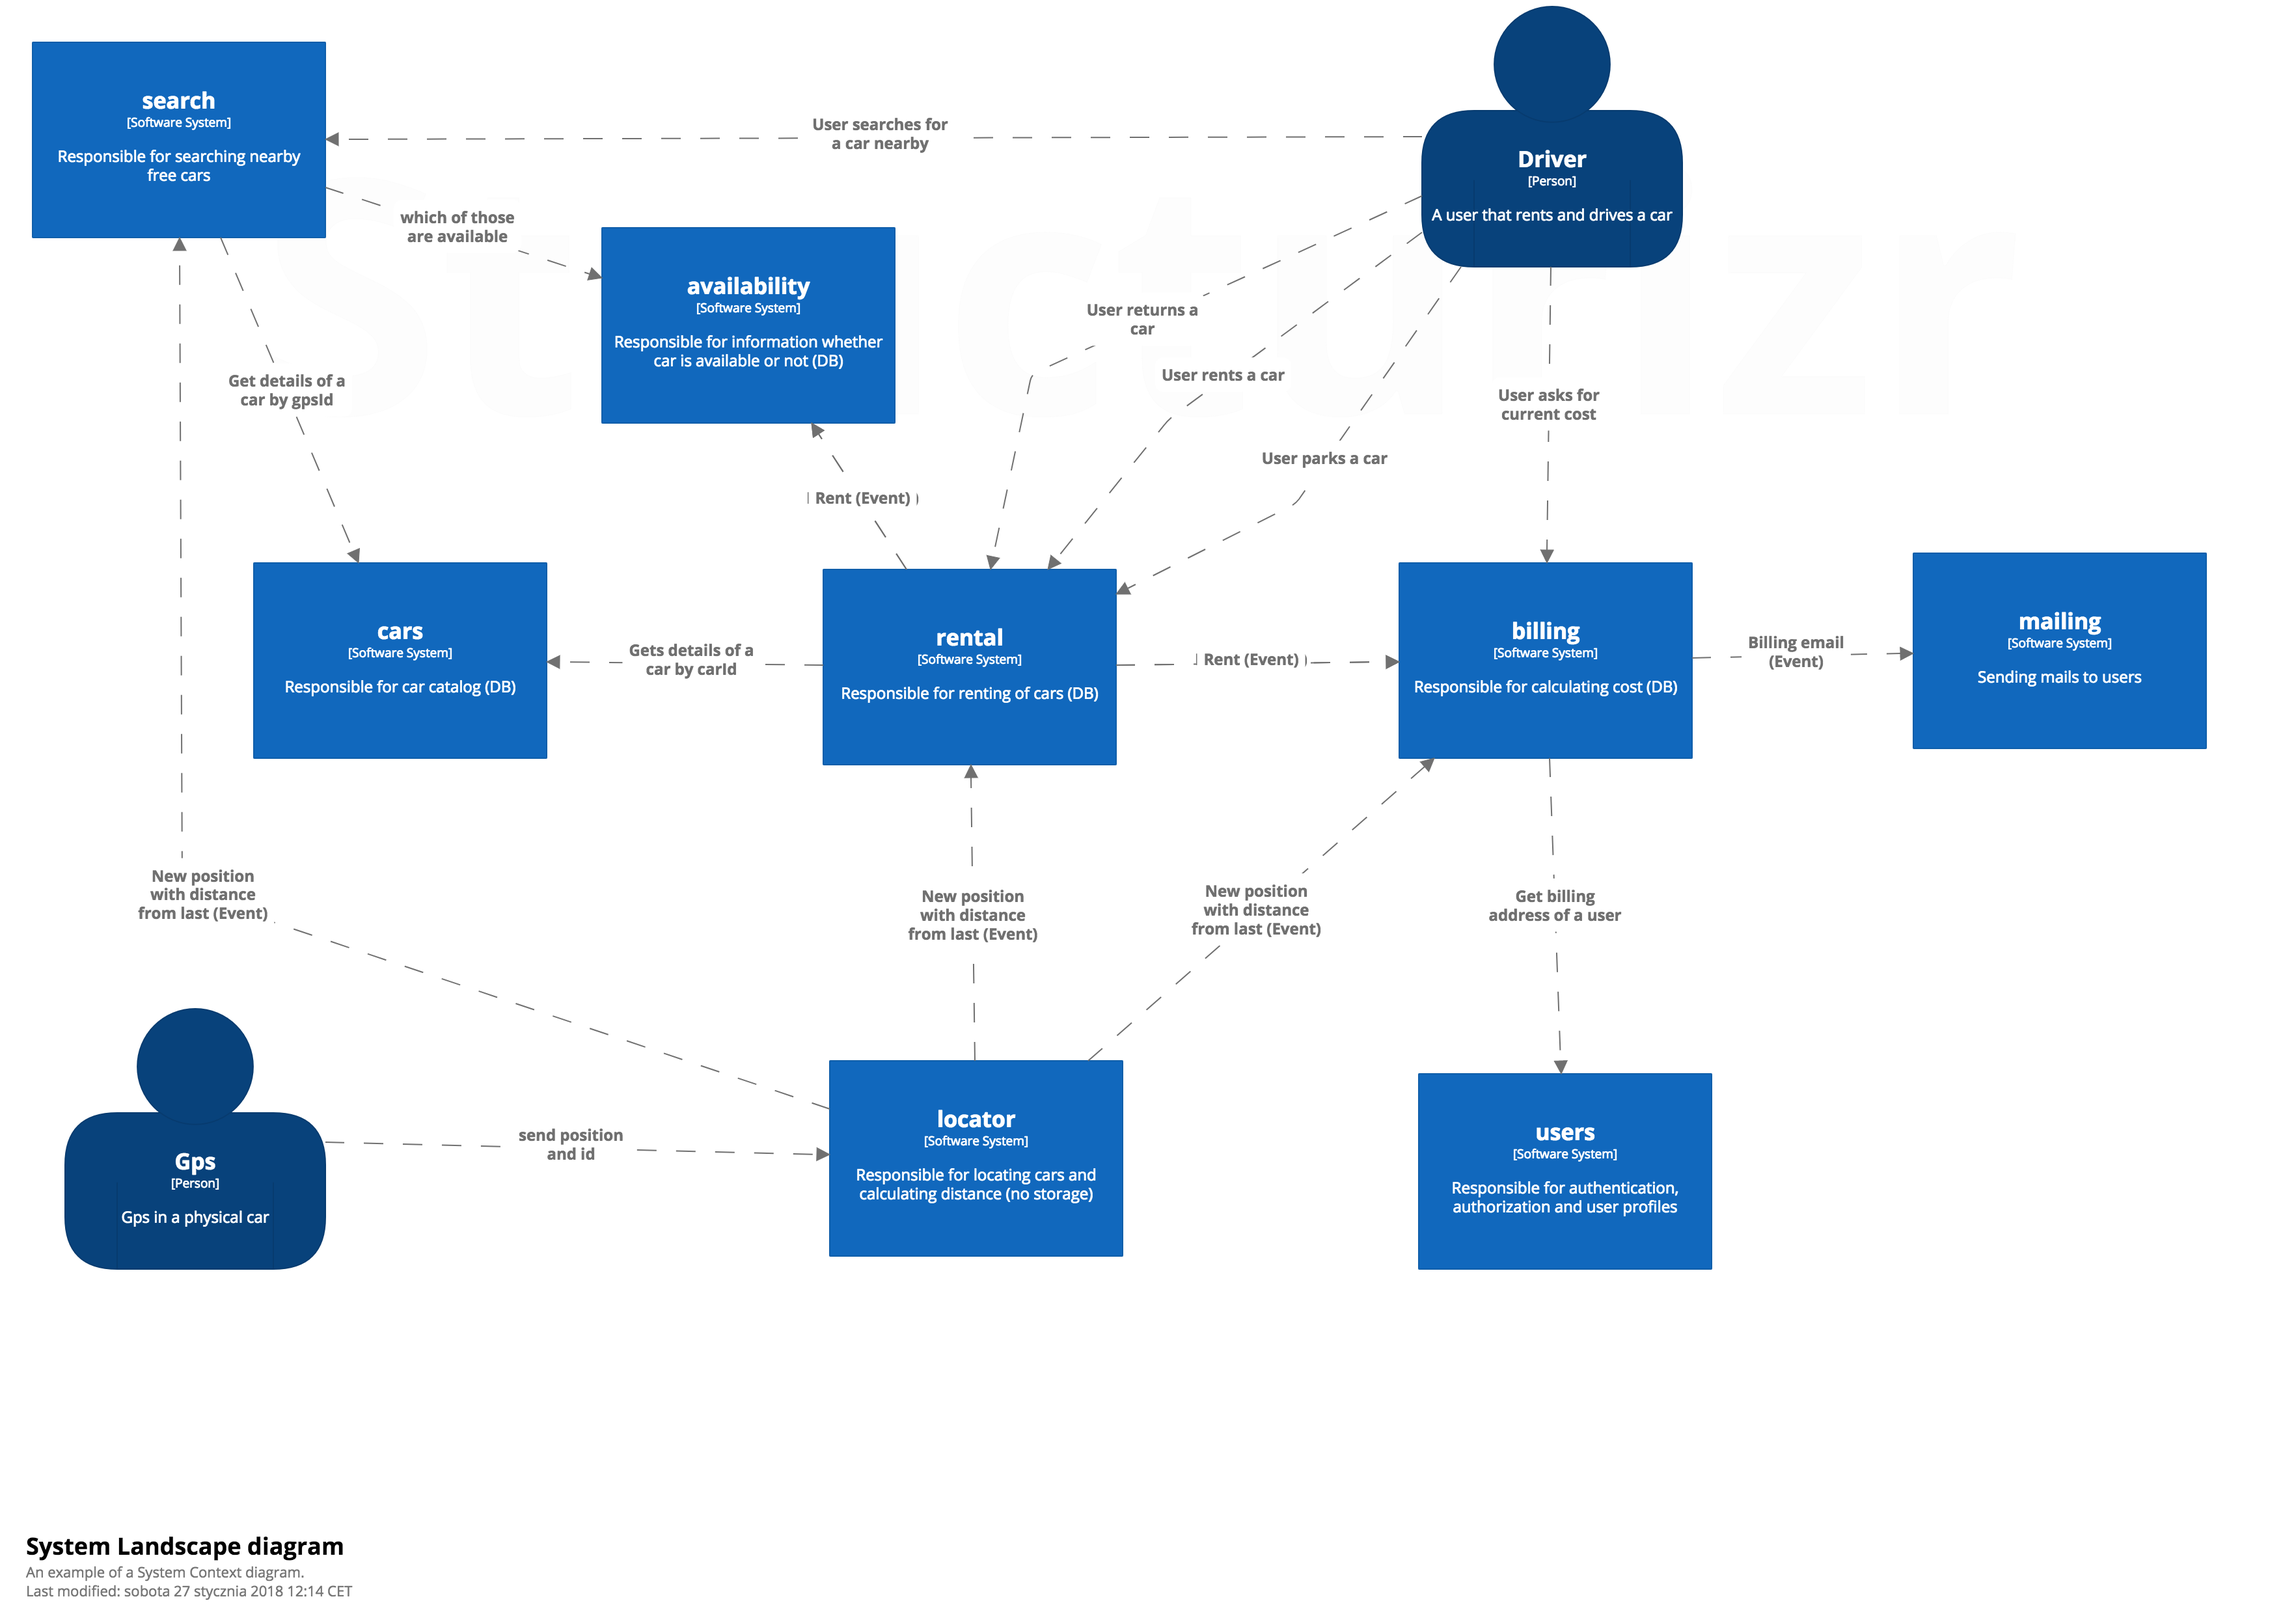
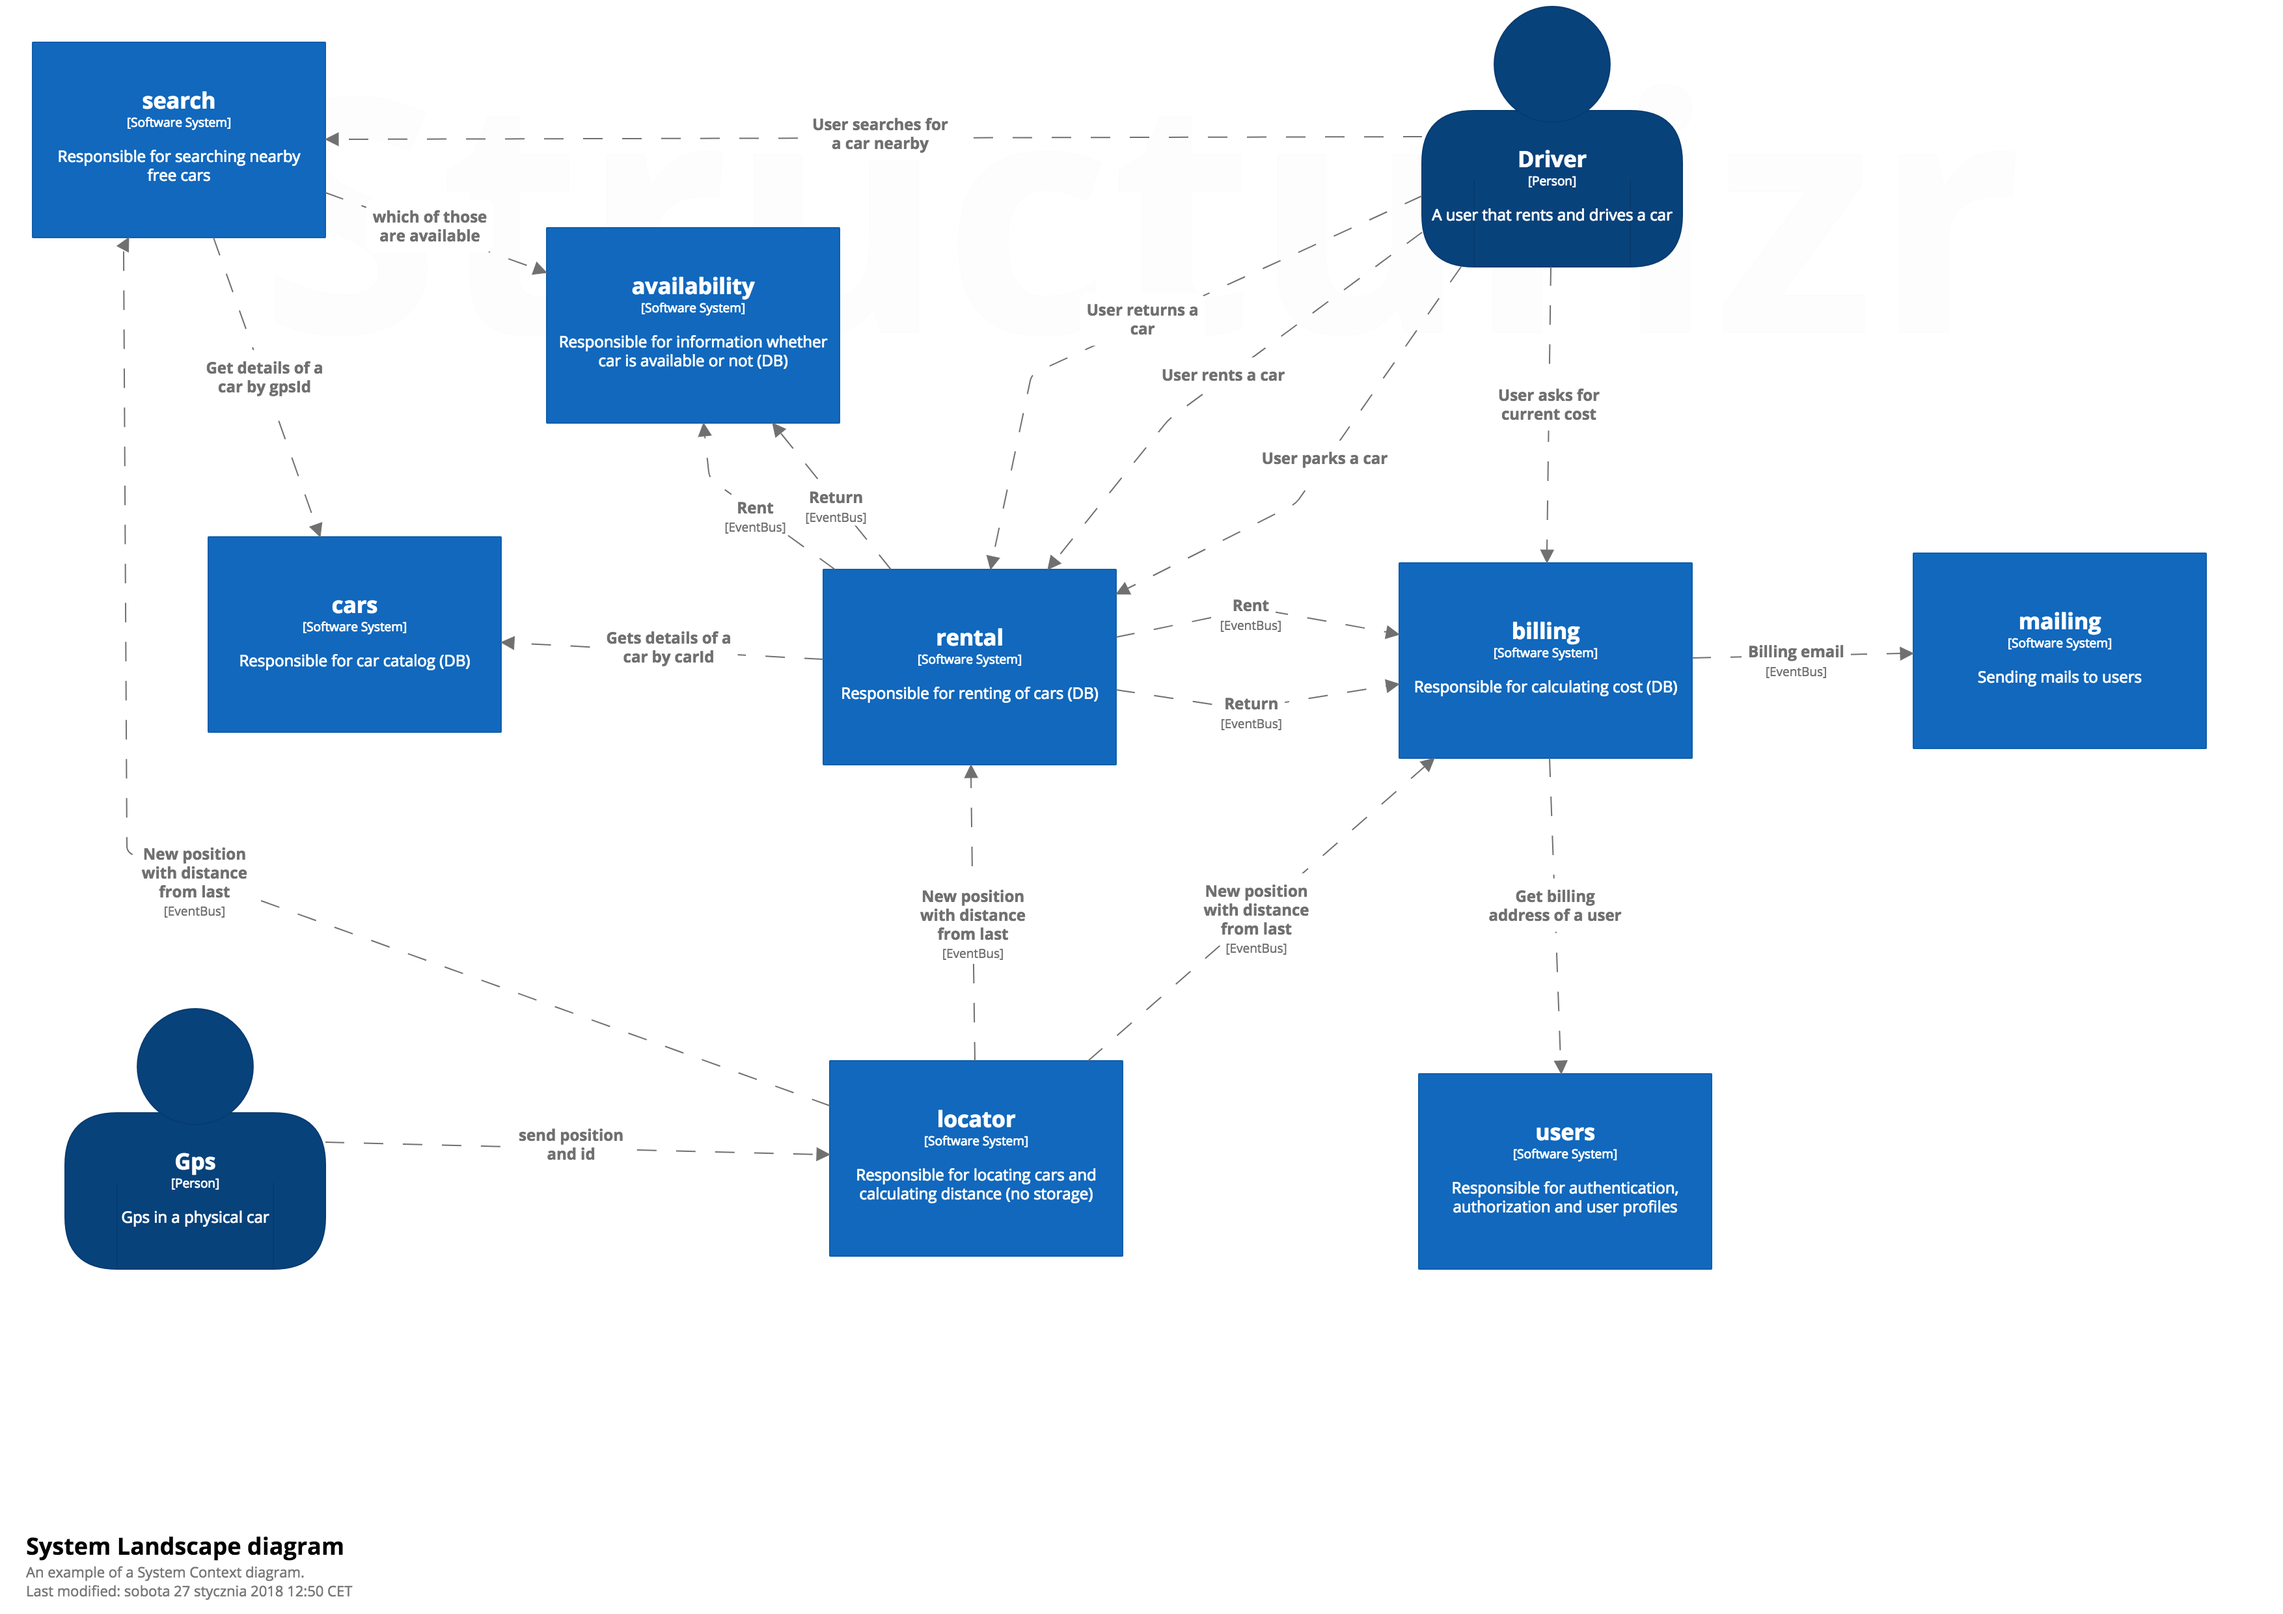
added event bus to architecture driagram

diff --git a/docs/architecture/src/main/java/Structurizr.java b/docs/architecture/src/main/java/Structurizr.java
@@ -13,12 +13,15 @@ import com.structurizr.view.ViewSet;
 import java.io.InputStream;
 import java.util.Properties;
 
+import static com.structurizr.model.InteractionStyle.Asynchronous;
 import static java.lang.Long.parseLong;
 
 /**
  * This is a simple example of how to get started with Structurizr for Java.
  */
 public class Structurizr {
+    static String eventTechnology = "EventBus";
+
 
     public static void main(String[] args) throws Exception {
         // a Structurizr workspace is the wrapper for a software architecture model, views and documentation
@@ -52,18 +55,18 @@ public class Structurizr {
         driver.uses(billing, "User asks for current cost");
 
 
-        locator.uses(rental, "New position with distance from last (Event)");
-        locator.uses(billing, "New position with distance from last (Event)");
-        locator.uses(search, "New position with distance from last (Event)");
+        locator.uses(rental, "New position with distance from last", eventTechnology, Asynchronous);
+        locator.uses(billing, "New position with distance from last", eventTechnology, Asynchronous);
+        locator.uses(search, "New position with distance from last", eventTechnology, Asynchronous);
 
-        rental.uses(billing, "Rent (Event)");
-        rental.uses(billing, "Return (Event)");
-        rental.uses(availability, "Rent (Event)");
-        rental.uses(availability, "Return (Event)");
+        rental.uses(billing, "Rent", eventTechnology, Asynchronous);
+        rental.uses(billing, "Return", eventTechnology, Asynchronous);
+        rental.uses(availability, "Rent", eventTechnology, Asynchronous);
+        rental.uses(availability, "Return", eventTechnology, Asynchronous);
 
         rental.uses(cars, "Gets details of a car by carId");
         billing.uses(users, "Get billing address of a user");
-        billing.uses(mailing, "Billing email (Event)");
+        billing.uses(mailing, "Billing email", eventTechnology, Asynchronous);
 
         // define some views (the diagrams you would like to see)
         ViewSet views = workspace.getViews();
